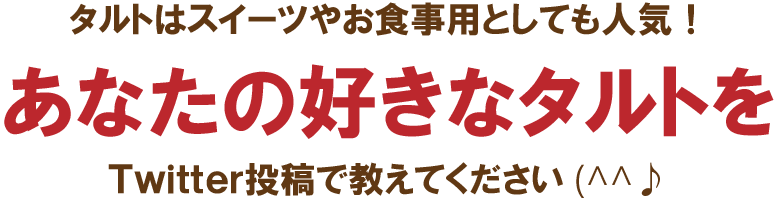
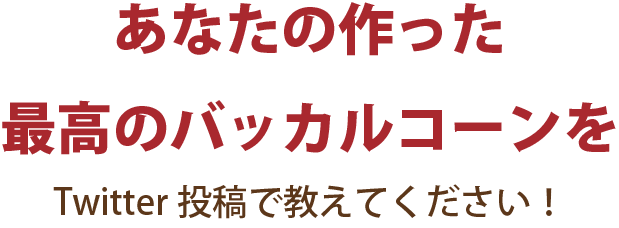
Add files via upload

diff --git a/tart_campaign/campaign/index.html b/tart_campaign/campaign/index.html
@@ -3,7 +3,7 @@
 <head>
 <meta charset="UTF-8">
 <meta name="viewport" content="width=device-width.intia-scale-1">
-<title>タルトが当たるキャンペーン</title>
+<title>クリオネ作品応募キャンペーン</title>
 <link href="css/destyle.css" rel="stylesheet" type="text/css">
 <link href="css/style.css" rel="stylesheet" type="text/css">
 </head>
@@ -11,7 +11,7 @@
 <body>
 <header>
 	<div class="logo">
-		<a href="#"><img src="images/logo.png" alt="日本タルト協会" /></a>
+		<a href="#"><img src="images/logo.png" alt="日本バッカルコーン協会" /></a>
     </div>
 </header>
 
@@ -21,8 +21,8 @@
         
       		<section>
             	<div class="mainvisual">
-         <h1 class="sp"><img src="images/main_img_sp_01-80.jpg" alt="みんなの大好きタルト大募集"></h1>       
-         <h1 class="pc"><img src="images/main_img_pc_01-80.jpg" alt="みんなの大好きタルト大募集"></h1>
+         <h1 class="sp"><img src="images/main_img_sp_01-80.png" alt="バッカルコーン作品大募集"></h1>       
+         <h1 class="pc"><img src="images/main_img_pc_01-80.png" alt="バッカルコーン作品大募集"></h1>
                 </div>
             </section>  
             
@@ -39,14 +39,14 @@
 
 <section>
 <div class="summary">
-	<div class="sum-ttl"><img src="images/main_title.png" alt="好きなタルトを教えてください"></div>
+	<div class="sum-ttl"><img src="images/main_title.png" alt="バッカルコーンを用いた作品を応募してください"></div>
 	<div class="sum-img"><img src="images/pic_cam_01.png" alt="応募は簡単"></div>
 	<h2 id="about">応募内容</h2>
-	<ol>	<li>キャンペーン期間中に、日本タルト協会Twitter公式アカウント「＠ーーーーー」をフォロー</li>
-	<li>ハッシュタグ　「＃タルトの日」あなたの好きなタルトを投稿して応募完了</li>
-	<li>抽選で１００名様にタルトの詰め合わせをプレゼント！</li>
+	<ol>	<li>キャンペーン期間中に、日本バッカルコーン協会Twitter公式アカウント「＠ーーーーー」をフォロー</li>
+	<li>ハッシュタグ　「＃バッカルコーンLOVE❤」あなたの描いたバッカルコーンを投稿して応募完了</li>
+	<li>抽選で１００名様にクリオネストラッププレゼント！</li>
 	</ol>
-	<h3>応募締切<br />2022年6月30日23時59分まで</h3>
+	<h3>応募締切<br />2022年1月31日23時59分まで</h3>
 </div>
 </section>
 
@@ -57,22 +57,22 @@
 	<div class="howtoBox">
 <div class="how-icon"><img src="images/icon_step1.png" alt="step1"/></div>
 <div class="how-pic"><img src="images/pic_cam_02.png" alt="フォロー"/></div> 
-<p>Twitterで日本タルト協会のアカウント「<a href="#">@--------</a>」をフォロー。（この期間中はフォローを外さないでください。）
+<p>Twitterで日本バッカルコーン協会のアカウント「<a href="#">@--------</a>」をフォロー。（この期間中はフォローを外さないでください。）
 </p>
 		<div class="btn-inner"><a href="#" class="btn">フォローする</a></div>
 	</div>
 	<div class="howtoBox">
 		<div class="how-icon"><img src="images/icon_step2.png" alt="step2"/></div>
 		<div class="how-pic"><img src="images/pic_cam_03.png" alt="ツイート"/></div>
-		<p>ハッシュタグ「<a href="#">#タルトの日</a>」をつけて、お好きなタルトをツイートする。(個人情報は投稿しないようにご注意ください)</p>
+		<p>ハッシュタグ「<a href="#">#バッカルコーンLOVE❤</a>」をつけて、描いたバッカルコーンをツイートする。(個人情報は投稿しないようにご注意ください)</p>
 		<div class="btn-inner"><a href="#" class="btn">ツイートする</a></div>
         </div>
 		<div class="howtoBox">
 		<div class="how-icon"><img src="images/icon_step3.png" alt="step3"/></div>
 		<div class="how-pic"><img src="images/pic_cam_04.png" alt="DMでお知らせ"/></div>
-        <p>抽選で100名様に、タルト詰め合わせが当たります。当選者には後日TwitterのDMにてお知らせします。</p>
+        <p>抽選で100名様に、クリオネストラップが当たります。当選者には後日TwitterのDMにてお知らせします。</p>
 		<p>(フォローが外れている方は抽選の対象外です)</p>
-		<h3>賞品発送予定日<br />2022年7月30日~順次発送</h3>
+		<h3>賞品発送予定日<br />2022年2月30日〜順次発送</h3>
         	</div>
            </div>
           </div>
@@ -82,10 +82,10 @@
 <section id="prize">
 <div class="prize">
 		<h2>賞品</h2>
-        <p>日本タルト協会協賛企業から、オススメタルト１５種詰め合わせをお送りします。（冷凍便でのお届けです。）
+        <p>日本バッカルコーン協会協賛企業から、クリオネストラップをお送りします。(冷蔵便でのお届けです)
         ※種類はご指定できません。<br />
        	※写真はイメージです。</p>
-       	<div class="prize-img"><img src="images/item_img_sm_01-80.jpg" alt="タルト詰め合わせ"/></div>
+       	<div class="prize-img"><img src="images/item_img_sm_01-80.png" alt="クリオネストラップ"/></div>
         </div>
         </section>
         
@@ -118,7 +118,7 @@
 
 <footer>
  <div class="f-logo">
- <a href="#"><img src="images/logo.png" alt="日本タルト協会"></a>
+ <a href="#"><img src="images/logo.png" alt="日本バッカルコーン協会"></a>
 </div>
 </footer>
     

diff --git a/tart_campaign/campaign/css/style.css b/tart_campaign/campaign/css/style.css
@@ -6,7 +6,7 @@ html {
 }
 body { 
 	font-family: "Kosugi Maru", "Hiragino Sans", "Hiragino Kaku Gothic ProN", "sans-serif";
-	background: url("../images/bg-cover_01.jpg") center center / cover no-repeat fixed ;
+	background: url("../images/bg-cover_01.png") center center / cover no-repeat fixed ;
 }
 img { 
 	max-width: 100%;
@@ -39,7 +39,7 @@ h3{
 }
 a.btn {
 	display:inline-block;
-	border:2px solid #603813;
+	border:2px solid #0E185F;
 	color:#fff;
 	padding:15px 30px;
 	margin:40px 0 0 0;
@@ -47,13 +47,16 @@ a.btn {
 	border-radius:10px;
 	transform:translateY(0px);
 	transition:all 0.3s;
-	background:#603813;
+	background:#0E185F;
 }
 a.btn:hover {
-	color:#603813;
+	color:#0E185F;
 	background:#fff;
 	transform:translateY(-3px);
-	box-shadow:0 5px 0 #603813;
+	box-shadow:0 5px 0 #0E185F;
+}
+header{
+    background:#ccc;
 }
 
 header .logo { 
@@ -81,7 +84,7 @@ footer .f-logo img {
 }
 nav {
 	padding:30px 0;
-	background:#BC272D;
+	background: #DFF6FF;
 }
 nav ul.icon-navi {
 	display: flex;
@@ -111,7 +114,7 @@ nav ul.icon-navi li img {
 }
 
 .howto {
-	background: #F6E821;
+	background: #F2FA5A;
 	padding:60px 20px 100px 20px;
 }
 .how-inner{
@@ -145,7 +148,7 @@ nav ul.icon-navi li img {
     width: 100%;
 }
 .terms {
-    background: #eee;
+    background: #ccc;
     padding:60px 20px;
 }
 .terms .te-txt{
